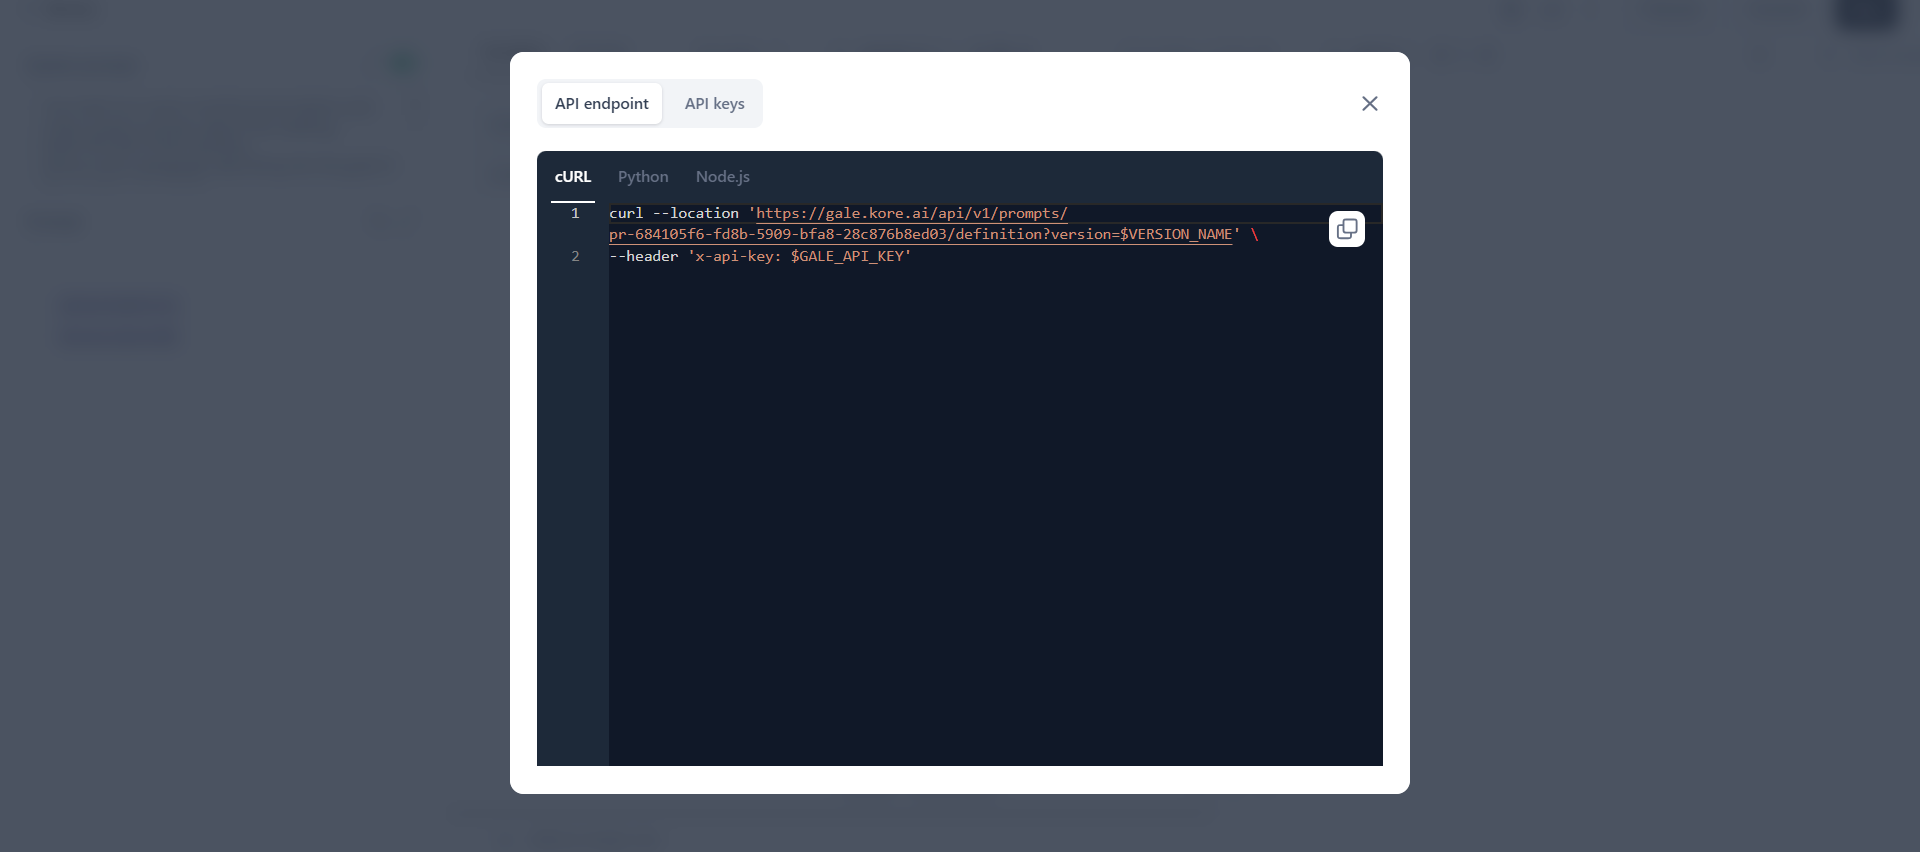
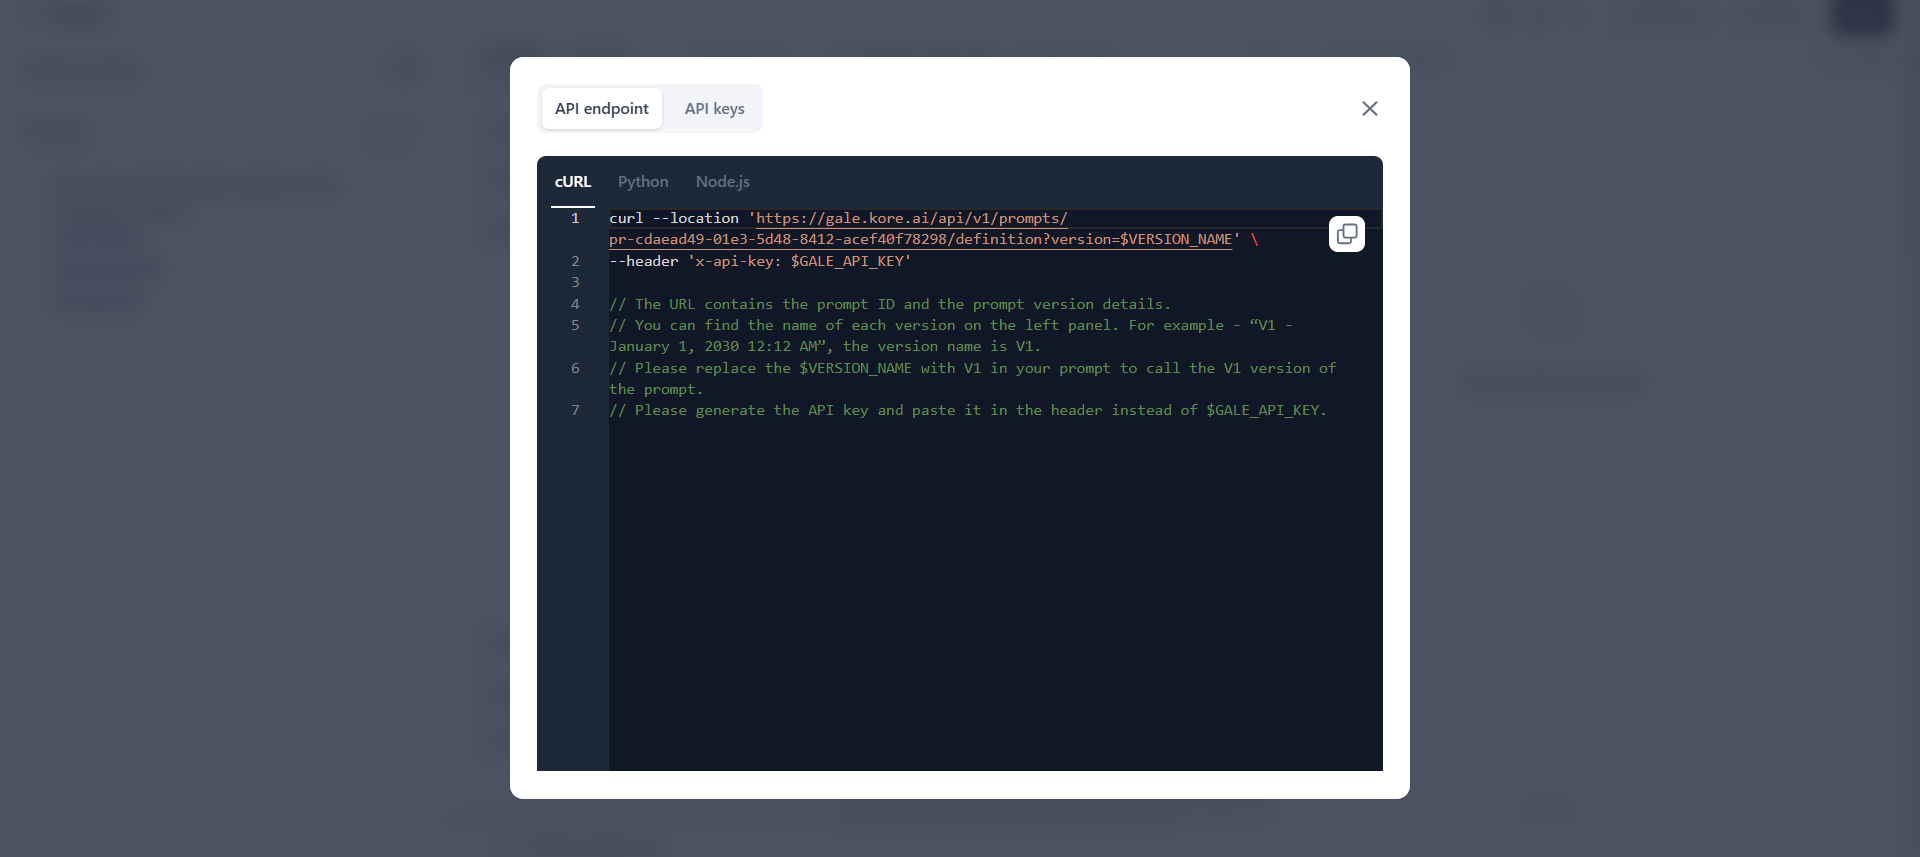
v1.0.6 content updates (#93)
* Update gen-ai-node.md

* update

* update.

* image updated

* revised deploy an agent doc

* note removed from Agent Deployment

* timeout priority - agent, node, model

* model endpoint text updated

* timeout priority while agent configuration

* model timeout text updated

* timeout text updated

* Timeout priority added to Deploy an Agent

* note updated

* timeout error details updated

* spelling fixes

* minor update

* RN link destination changed from stage to prod

* Link fixes on the Settings Overview page

* link fix

* link fix

* timeout duration revised

* update

* image updated for timeout

* commit: added new images

* commit: 12 characters password

* commit: old new password

* commit: strong password screen changed

* commit: edits

* commit: edits

* commit: role mgmt

* commit: added note

* commit: role management changes

* commit: role mgmt changes

* commit: role management

* commit: role mgmt changes

* no timeout setting for async mode

* more changes to no timeout setting for async

* minor edits

* commit: resend invite

* API Integration

* updates

* updates

* Manager Custom API Integration

* update

* update

* Quantization

* updates

* Manage API Integrations

* created script libraries doc and linked to function node doc.

* update

* link updated

* typo fixed

* updates

* updates

* header changes

* formatting

* link updated

* commit: image edit for ad

* commit: image changes on sign in

* commit: image edits
[…]

diff --git a/docs/gale/models/open-source-models/importing-models.md b/docs/gale/models/open-source-models/importing-models.md
@@ -1,0 +1,103 @@
+# Importing a Model
+
+GALE enables users to import base and adapter model files from their local machines into the platform. For **base** models, users can directly upload model files and import them into the GALE system for further use. For **adapter** models, users must first select a compatible base model and then upload and import the adapter model file. Once imported, these models become available for deployment within the GALE platform.
+
+This process enables users to seamlessly integrate local models into GALE, ensuring compatibility and readiness for deployment. It facilitates efficient management and configuration,  just like other open-source models, and streamlines workflows within the platform.
+
+!!! note
+
+    **Base Model**: A base model is a pre-trained model that can be used for general tasks. It’s already trained on a large dataset and can be used as-is or fine-tuned for specific tasks.
+
+    **Adapter Model**: An adapter model is a smaller model that works with a base model to make it more suited for a specific task or dataset. It doesn’t need to retrain the entire base model but adjusts it for new purposes.
+
+
+### Best Practices
+
+1. **Ensure model compatibility**: When importing an adapter model, always verify that it is compatible with a supported base model. The system informs you that a base model is required, so ensure that you select a base model from the Kore-hosted list before proceeding with the adapter model upload.
+2. **Validate model files before importing**: Always check your model's file extension and format before uploading. The system validates the model file during the import process, so uploading a valid file upfront will prevent unnecessary errors and delays.
+3. **One model at a time**: To avoid conflicts or issues with multiple simultaneous imports, import one model file at a time. Ensure that each model (whether base or adapter) is fully imported and validated before proceeding to the next.
+4. **Monitor import and validation status**: Track the model's status during the import and validation process. If an error occurs, the system provides details about the failure. Use this information to address issues quickly, either by correcting the file or re-uploading a new one.
+5. **Prepare for deployment after validation**: Once the model is successfully imported and validated, it is marked as ‘Ready to deploy’. Before deploying, ensure all necessary configurations, such as description, tags, and API keys, are set up. Also, familiarize yourself with the deployment process to ensure a smooth transition to production.
+6. **Avoid interruptions during import:** To ensure a smooth import process, refrain from switching accounts or refreshing the page, as these actions may interrupt the import.
+
+
+### Prerequisites
+
+* The user must be logged in to GALE and have the necessary permissions to import models.
+* The model file to be imported must be available on the user’s local machine.
+
+
+## Importing Base Models into GALE
+
+**Steps to import a base model into GALE:**
+
+1. Go to **Models** > **Open-source models** and click the **Import model** button.
+2. On the **Import model** dialog, choose the **Base Model** tab.  
+Click ‘Instructions’ to view the detailed guidelines for the supported format and the necessary files to include in the zip folder for both base and adapter models.
+
+<img src="../images/base_model.png" alt="Base Model" title="Base Model" style="border: 1px solid gray; zoom:80%;">
+
+3. **Upload the model file**: In the **Import base model file** section, drag and drop the model file into the designated upload area, or use the **Upload file** link to browse and select the file from your local machine. Ensure the file extension matches the supported model formats.
+4. **File Validation**: The system validates the file’s extension.
+    * If the file is valid, the file name appears and the **Import** button is enabled.
+    * If the file fails validation, an error message appears detailing why the file is invalid. You must correct the file before proceeding.
+5. **Import the model**: Click the **Import** button to start the import process.
+
+    The system displays the model name in the Open-Source Models dashboard with the following status updates as the import progresses:
+
+    * **Importing**: When the file is being uploaded.
+    * **Validating**: When the file is being validated.
+    * **Import Failed**: If any errors occur during the import or validation process, the system displays the error details. You can choose to fix the issue and re-import the model or cancel the process.
+    * **Ready to Deploy**: When the model is successfully imported and validated.  
+
+6. Once the model is ready for deployment, you can click the row in the dashboard and manage the model’s deployment settings in the following sections:
+    * **Configurations**: Edit the model’s description and tags.
+    * **API keys**: Configure the API key and deployment settings.
+    * **Model Endpoint**: Start the deployment.
+
+
+## Importing Adapter Models into GALE
+
+**Steps to import an adapter model into GALE:**
+
+1. Go to **Models** > **Open-source models** and click the **Import model** button.
+2. On the **Import model** dialog, choose the **Adapter Model** tab.  
+Click ‘Instructions’ to view the detailed guidelines for the supported format and the necessary files to include in the zip folder for both base and adapter models.
+
+<img src="../images/adapter_model.png" alt="Adapter Model" title="Adapter Model" style="border: 1px solid gray; zoom:80%;">
+
+3. **Select a base model**: Browse through the list of available base models and choose one that supports the adapter model you're importing. Once selected, the base model is associated with the adapter model.
+
+<img src="../images/adapter_model_details.png" alt="Adapter Model" title="Adapter Model" style="border: 1px solid gray; zoom:80%;">  
+
+4. **Upload the model file**: In the **Import base model file** section, drag and drop the model file into the designated upload area, or use the **Upload file** link to browse and select the file from your local machine. Ensure the file extension matches the supported model formats.
+5. **File Validation**: The system validates the file’s extension.
+    * If the file is valid, the file name appears and the **Import** button is enabled.
+    * If the file fails validation, an error message appears detailing why the file is invalid. You must correct the file before proceeding. 
+6. **Import the model**: After the adapter model file is validated and the base model is selected, click the **Import** button to start the import process. The system displays the model name in the Open-Source Models dashboard with the following status updates as the import progresses:
+    * **Importing:** When the file is being uploaded.
+    * **Validating**: When the file is being validated.
+    * **Import Failed**: If any errors occur during the import or validation process, the system displays the error details. You can fix the issue, re-import the model, or cancel the process.
+    * **Ready to Deploy**: When the model is successfully imported and validated.
+7. Once the model is ready for deployment, you can click the row in the dashboard and manage the model’s deployment settings in the following sections:
+    * **Configurations**: Edit the model’s description and tags.
+    * **API keys**: Configure the API key and deployment settings.
+    * **Model Endpoint**: Start the deployment.
+
+
+## Key Considerations
+
+* **Model details**: Once the model is ready, you can modify its description and tags. However, the model name remains uneditable, as it is derived from the file name.
+* **Deployment and management**: All actions related to deployment, re-deployment, and failure management will follow the same process as existing open-source models. After deployment, the model’s status, re-deployment history, API endpoint, and related toasts or email notifications will be the same as those for other open-source models.
+* **Manage deletion**:
+    * If the model has not been deployed or while the model is being imported, you can delete it using the Delete option from the three-dot menu on the dashboard.
+    * If the model is deployed, you can trigger re-deployment or view the deployment history.
+* **Errors during model import**: If any errors occur during model import, such as invalid file formats, upload failures, extraction issues, or compatibility problems, refer to the error message displayed by the system for guidance on resolving the issue.
+* **Further fine-tuning:** Imported models can be fine-tuned further and deployed as individual units. During fine-tuning, the imported models are included in the Models hub menu in the Base model section. 
+
+
+!!! note
+
+    The deployconfig.json file is added to the model export. If the same model is later imported into GALE, the deployment details from this file will be automatically retrieved and pre-filled in the deployment wizard. This includes previous deployment settings, such as model names, descriptions, tags, hyperparameters, hardware configurations, and optimization techniques.
+
+

diff --git a/docs/gale/release-notes/recent-updates.md b/docs/gale/release-notes/recent-updates.md
@@ -2,6 +2,34 @@
 
 This document provides information on the feature updates and enhancements introduced in the recent GALE releases.
 
+## v1.0.6 December 12, 2024
+
+<u> Minor Release </u>
+
+This update includes new features, feature enhancements, and security enhancements, summarized below.
+
+**New Features**
+
+* Export and import agents: The new agent export functionality allows users to export GALE agents as self-contained packages. Users can import the agents from the files, preserving node configurations, variables, and settings.
+* Increased token limits and hyper-parameter changes for external models.
+* Better validation for open-source model files under 500MB to streamline imports (files over 500MB continue to use server-side validation).
+* Added support for Llama3.2 (1B, 3B) and Mistral-Nemo-12b open-source and fine-tuned models.
+* Added support for using IAM roles to access AWS services like S3 and KMS, in addition to the existing key-based authentication for customers running GALE on an AWS VPC environment.
+
+
+**Feature Enhancements**
+
+* Improved prompt API endpoint: The updated instructions in the prompt API endpoint help users properly set up and use the endpoint.
+* Improved labels for credits and runs.
+* Show deployment history after the first model deployment attempt, regardless of the deployment status.
+
+**Security Enhancements**
+
+* Fixed stored XSS vulnerability in open-source model.
+* Resolved security issues found in v1.0.4 scan.
+
+<hr>
+
 ## v1.0.5 November 20, 2024
 
 <u> Minor Release </u>

diff --git a/docs/gale/models/fine-tune-models/create-a-fine-tuned-model.md b/docs/gale/models/fine-tune-models/create-a-fine-tuned-model.md
@@ -21,7 +21,8 @@ Steps to fine-tune a model:
     * Provide tags to ease the search for the model and click **Next**.
 
 3. In the **Base** **model** section, choose the model to be fine-tuned.
-    * If you choose **Kore-hosted models**, select the **model** from the dropdown menu and click **Next**.  
+    * If you choose **Kore-hosted models**, select the **model** from the dropdown list and click **Next**.  
+    **Note**: Imported models are also included in the list of models.  
     <img src="../images/base-model-kore hosted.png" alt="Kore hosted models" title="Kore hosted models" style="border: 1px solid gray; zoom:80%;">
 
     * If you choose to **Import from Hugging Face**, select the **Hugging Face connection** type from the dropdown, and paste the **model name**. Click **Next**. For more information about how to connect to your Hugging Face account, see[ How to Connect to your Hugging Face Account](../../settings/integrations/enable-hugging-face.md).
